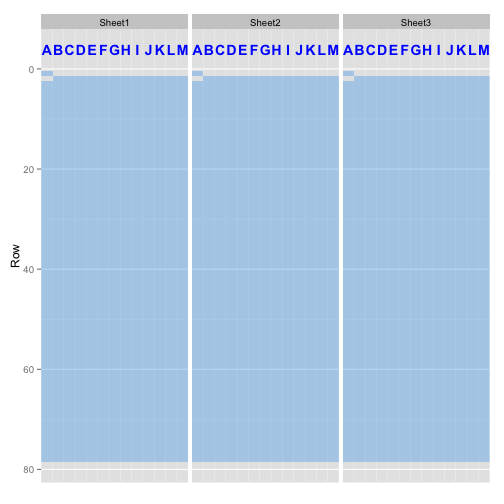
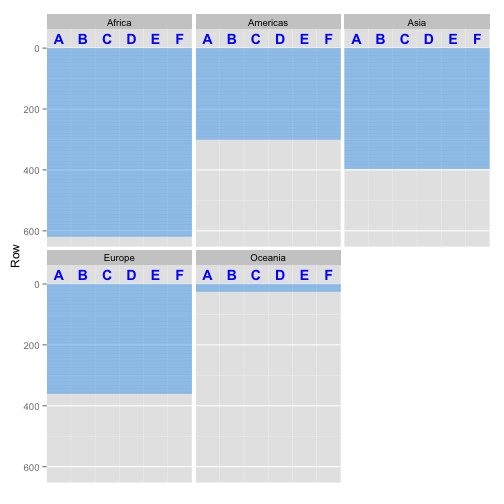
Update README to include Travis and use new sheet

diff --git a/README.md b/README.md
@@ -3,6 +3,7 @@
 
 Google Spreadsheets R API
 ---
+[![Build Status](https://travis-ci.org/jennybc/gspreadr.png?branch=master)](https://travis-ci.org/jennybc/gspreadr)
 
 Manage your spreadsheets with *gspreadr* in R. 
 
@@ -59,30 +60,37 @@ More Examples
 
 ```r
 # You can open a spreadsheet by its title as it appears in Google Drive
-ssheet <- open_spreadsheet("Temperature")
-
-# See the structure
-str(ssheet)
-```
-
-```
-## Spreadsheet:
-## Temperature: 3 worksheets
-## 
-## Worksheets:
-## Sheet1 : 78 rows and 13 columns
-## Sheet2 : 78 rows and 13 columns
-## Sheet3 : 78 rows and 13 columns
+ssheet <- open_spreadsheet("Gapminder")
 ```
 
 ##### Usually for public spreadsheets (set visibility = "public" for public spreadsheets): 
 
 ```r
 # Open a spreadsheet by its key 
-ssheet <- open_by_key("1GLsDOyR8hDgkjC6fzaDCVVjYsN8tLvnySDayk3HfxxA")
+ssheet <- open_by_key("1hS762lIJd2TRUTVOqoOP7g-h4MDQs6b2vhkTzohg8bE")
 
 # You can also use the entire URL
-ssheet <- open_by_url("https://docs.google.com/spreadsheets/d/1WNUDoBb...")
+ssheet <- open_by_url("https://docs.google.com/spreadsheets/d/1hS762...")
+```
+
+
+
+
+```r
+# See the structure
+str(ssheet)
+```
+
+```
+## Spreadsheet:
+## Gapminder: 5 worksheets
+## 
+## Worksheets:
+## Africa : 619 rows and 6 columns
+## Americas : 301 rows and 6 columns
+## Asia : 397 rows and 6 columns
+## Europe : 361 rows and 6 columns
+## Oceania : 25 rows and 6 columns
 ```
 
 ### Creating and Deleting a spreadsheet
@@ -105,7 +113,7 @@ list_worksheets(ssheet)
 ```
 
 ```
-## [1] "Sheet1" "Sheet2" "Sheet3"
+## [1] "Africa"   "Americas" "Asia"     "Europe"   "Oceania"
 ```
 
 ```r
@@ -113,7 +121,7 @@ list_worksheets(ssheet)
 ws <- open_worksheet(ssheet, 1)
 
 # By title
-ws <- open_worksheet(ssheet, "Sheet1")
+ws <- open_worksheet(ssheet, "Africa")
 
 # See the structure
 str(ws)
@@ -121,21 +129,14 @@ str(ws)
 
 ```
 ## Worksheet
-## Sheet1 : 78 rows and 13 columns
-##    Column Label Rows Empty.Cells Missing         Runs
-## 1       1     A   78           1    0.01 1V, 1NA, 76V
-## 2       2     B   78           1    0.01     1NA, 77V
-## 3       3     C   78           1    0.01     1NA, 77V
-## 4       4     D   78           1    0.01     1NA, 77V
-## 5       5     E   78           1    0.01     1NA, 77V
-## 6       6     F   78           1    0.01     1NA, 77V
-## 7       7     G   78           1    0.01     1NA, 77V
-## 8       8     H   78           1    0.01     1NA, 77V
-## 9       9     I   78           1    0.01     1NA, 77V
-## 10     10     J   78           1    0.01     1NA, 77V
-## 11     11     K   78           1    0.01     1NA, 77V
-## 12     12     L   78           1    0.01     1NA, 77V
-## 13     13     M   78           1    0.01     1NA, 77V
+## Africa : 619 rows and 6 columns
+##   Column Label Rows Empty.Cells Missing Runs
+## 1      1     A  619           0       0 619V
+## 2      2     B  619           0       0 619V
+## 3      3     C  619           0       0 619V
+## 4      4     D  619           0       0 619V
+## 5      5     E  619           0       0 619V
+## 6      6     F  619           0       0 619V
 ```
 
 ### Viewing a worksheet
@@ -181,8 +182,7 @@ get_row(ws, 3)
 ```
 
 ```
-##  [1] "1937" "-3.8" "2"    "7.3"  "8.4"  "11.5" "15.3" "17.1" "15.7" "13.9"
-## [11] "10.8" "6.5"  "4"
+## [1] "Angola"    "Africa"    "2007"      "42.731"    "12420476"  "4797.2313"
 ```
 
 ```r
@@ -190,10 +190,10 @@ get_rows(ws, from = 2, to = 5, header = TRUE)
 ```
 
 ```
-##     NA  Jan Feb Mar Apr  May  Jun  Jul  Aug  Sep  Oct Nov Dec
-## 1 1937 -3.8   2 7.3 8.4 11.5 15.3 17.1 15.7 13.9 10.8 6.5   4
-## 2 1938  3.3   4   6 9.2 11.8 15.3 17.5   16 14.9   10 4.5 3.3
-## 3 1939  4.6 2.2 5.6   9 12.5 13.9 16.4 17.3 13.7  9.8 8.9   7
+##    Algeria Africa 2007 72.301 33333216  6223.3675
+## 1   Angola Africa 2007 42.731 12420476  4797.2313
+## 2    Benin Africa 2007 56.728  8078314  1441.2849
+## 3 Botswana Africa 2007 50.728  1639131 12569.8518
 ```
 
 ### Getting all values from a column or range of columns
@@ -208,26 +208,28 @@ many_cols <- get_cols(ws, from_col = 1, to_col = 3)
 
 ```r
 # By boundary rows and cols
-read_region(ws, from_row = 2, to_row = 5, from_col = 2, to_col = 13)
+read_region(ws, from_row = 1, to_row = 5, from_col = 1, to_col = 6)
 ```
 
 ```
-##    Jan Feb Mar Apr  May  Jun  Jul  Aug  Sep  Oct Nov Dec
-## 1 -3.8   2 7.3 8.4 11.5 15.3 17.1 15.7 13.9 10.8 6.5   4
-## 2  3.3   4   6 9.2 11.8 15.3 17.5   16 14.9   10 4.5 3.3
-## 3  4.6 2.2 5.6   9 12.5 13.9 16.4 17.3 13.7  9.8 8.9   7
+##    country continent year lifeExp      pop  gdpPercap
+## 1  Algeria    Africa 2007  72.301 33333216  6223.3675
+## 2   Angola    Africa 2007  42.731 12420476  4797.2313
+## 3    Benin    Africa 2007  56.728  8078314  1441.2849
+## 4 Botswana    Africa 2007  50.728  1639131 12569.8518
 ```
 
 ```r
 # By range
-read_range(ws, "B2:M5")
+read_range(ws, "A1:F5")
 ```
 
 ```
-##    Jan Feb Mar Apr  May  Jun  Jul  Aug  Sep  Oct Nov Dec
-## 1 -3.8   2 7.3 8.4 11.5 15.3 17.1 15.7 13.9 10.8 6.5   4
-## 2  3.3   4   6 9.2 11.8 15.3 17.5   16 14.9   10 4.5 3.3
-## 3  4.6 2.2 5.6   9 12.5 13.9 16.4 17.3 13.7  9.8 8.9   7
+##    country continent year lifeExp      pop  gdpPercap
+## 1  Algeria    Africa 2007  72.301 33333216  6223.3675
+## 2   Angola    Africa 2007  42.731 12420476  4797.2313
+## 3    Benin    Africa 2007  56.728  8078314  1441.2849
+## 4 Botswana    Africa 2007  50.728  1639131 12569.8518
 ```
 
 ### Getting the entire worksheet
@@ -251,7 +253,7 @@ get_cell(ws, "B2")
 ```
 
 ```
-## [1] "Jan"
+## [1] "Africa"
 ```
 
 ```r
@@ -260,71 +262,76 @@ get_cell(ws, "R2C2")
 ```
 
 ```
-## [1] "Jan"
+## [1] "Africa"
 ```
 
 ### Finding cells
 
 ```r
 # find a cell with value (cell of first appearance)
-find_cell(ws, "Jan")
+find_cell(ws, "Algeria")
 ```
 
 ```
-## [1] "Cell R2C2, B2"
+## [1] "Cell R2C1, A2"
 ```
 
 ```r
 # find all cells with value
-find_all(ws, "10")
+find_all(ws, "Algeria")
 ```
 
 ```
-##   Label  Coord Val
-## 1    K4  R4C11  10
-## 2   E46  R46C5  10
-## 3   E59  R59C5  10
-## 4   K67 R67C11  10
-## 5   K72 R72C11  10
-## 6   K74 R74C11  10
-## 7   K75 R75C11  10
+##    Label  Coord     Val
+## 1     A2   R2C1 Algeria
+## 2    A54  R54C1 Algeria
+## 3   A105 R105C1 Algeria
+## 4   A157 R157C1 Algeria
+## 5   A208 R208C1 Algeria
+## 6   A260 R260C1 Algeria
+## 7   A311 R311C1 Algeria
+## 8   A363 R363C1 Algeria
+## 9   A414 R414C1 Algeria
+## 10  A466 R466C1 Algeria
+## 11  A517 R517C1 Algeria
+## 12  A569 R569C1 Algeria
 ```
 
 ### Updating cells 
 
 ```r
 # update a single cell
-update_cell(ws, "B4", "2.0")
+update_cell(ws, "B4", "Oops")
 
 get_cell(ws, "B4")
 ```
 
 ```
-## [1] "2"
+## [1] "Oops"
 ```
 
 ```r
 # Update cells in batch - specify range
-update_cells(ws, "B2:C2", c("January", "February"))
+update_cells(ws, "A1:C1", c("Country", "Continent", "Year"))
 
-read_range(ws, "B2:C2")
+read_range(ws, "A1:C1")
 ```
 
 ```
-##        V1       V2
-## 1 January February
+##        V1        V2   V3
+## 1 Country Continent Year
 ```
 
 ```r
 # Update cells in batch - specify anchor cell
-update_cells(ws, "D2", c("March", "April", "May"))
+update_cells(ws, "D1", c("Life Expectancy", "Population", "GDP Per Capita"))
 
-read_range(ws, "B2:F2")
+read_range(ws, "D1:F1")
 ```
 
 ```
-##        V1       V2    V3    V4  V5
-## 1 January February March April May
+##                V1         V2             V3
+## 1 Life Expectancy Population GDP Per Capita
 ```
 
 
